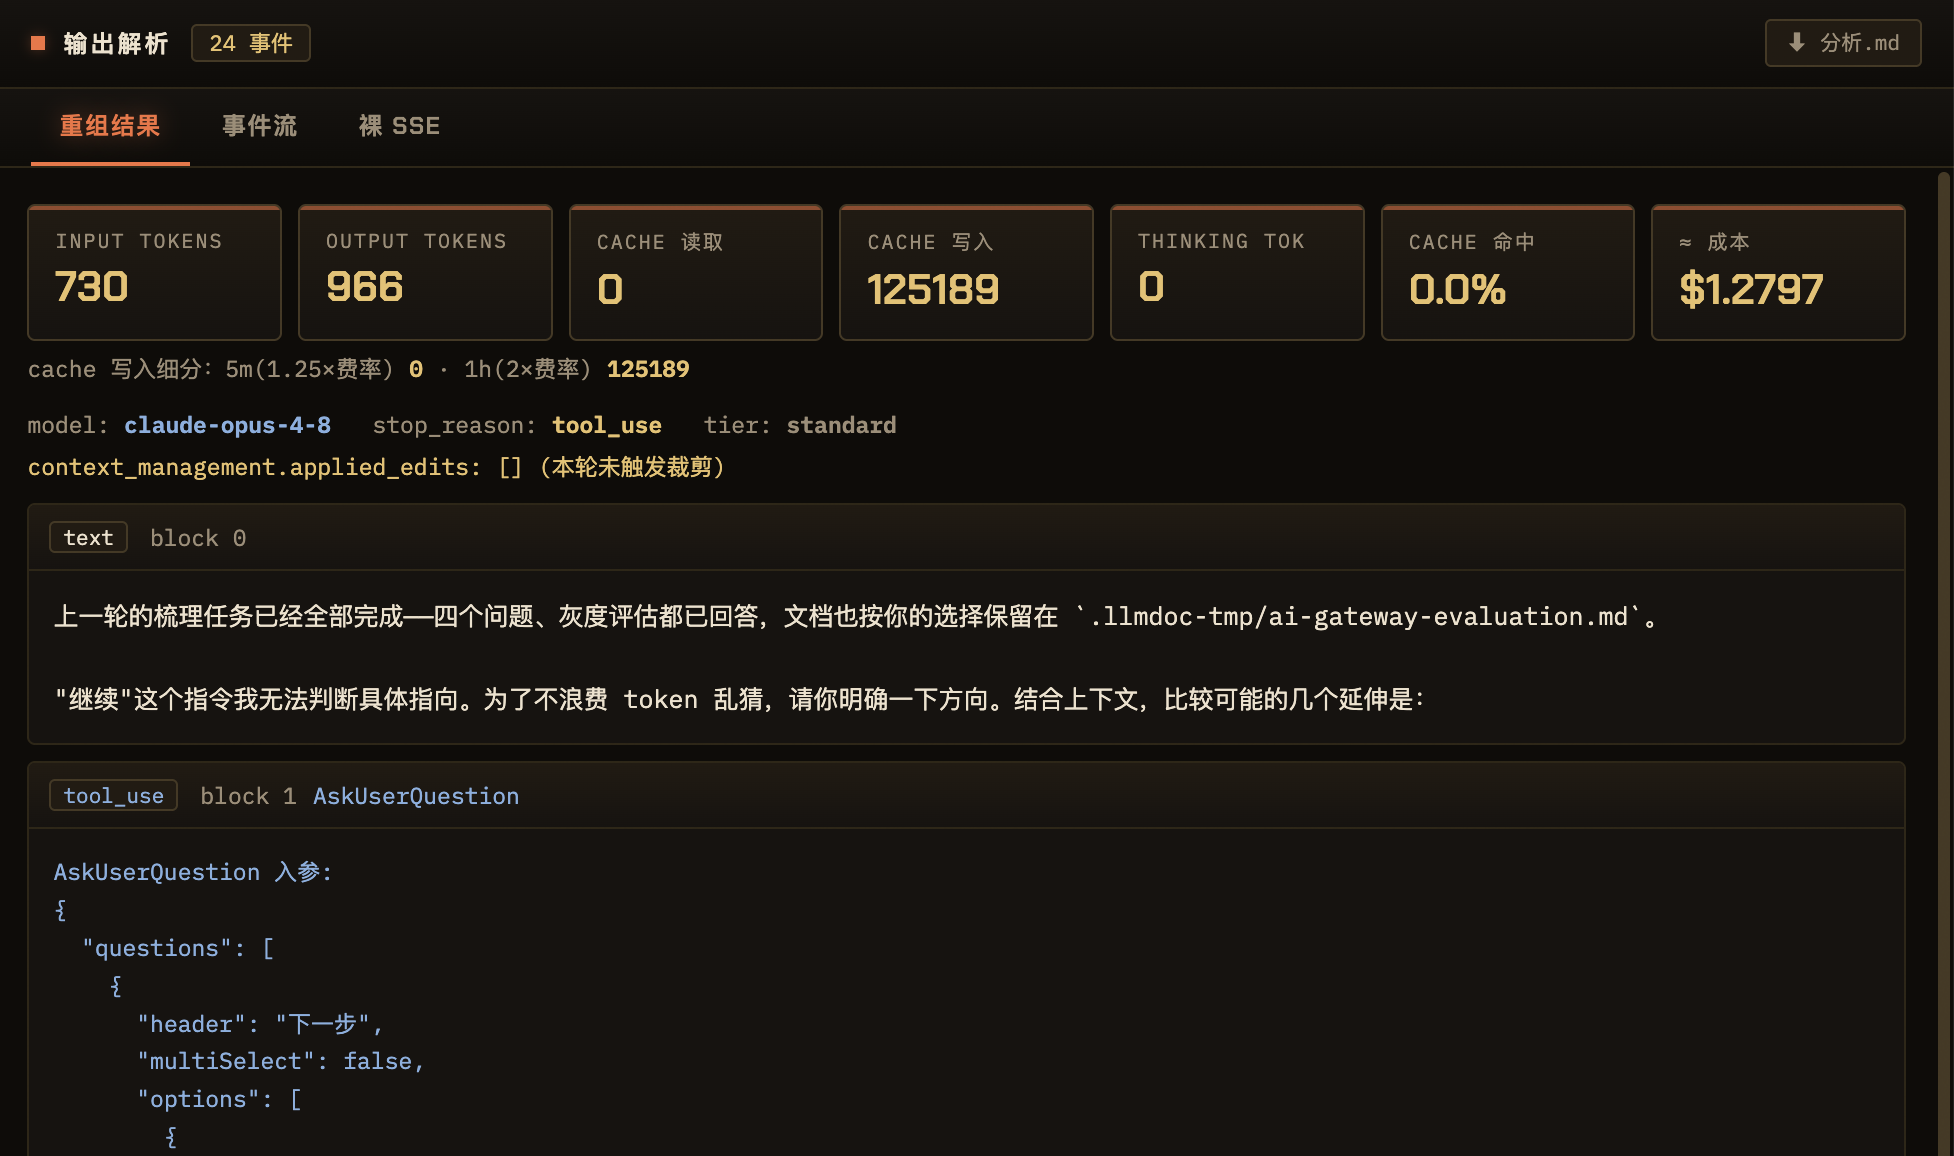
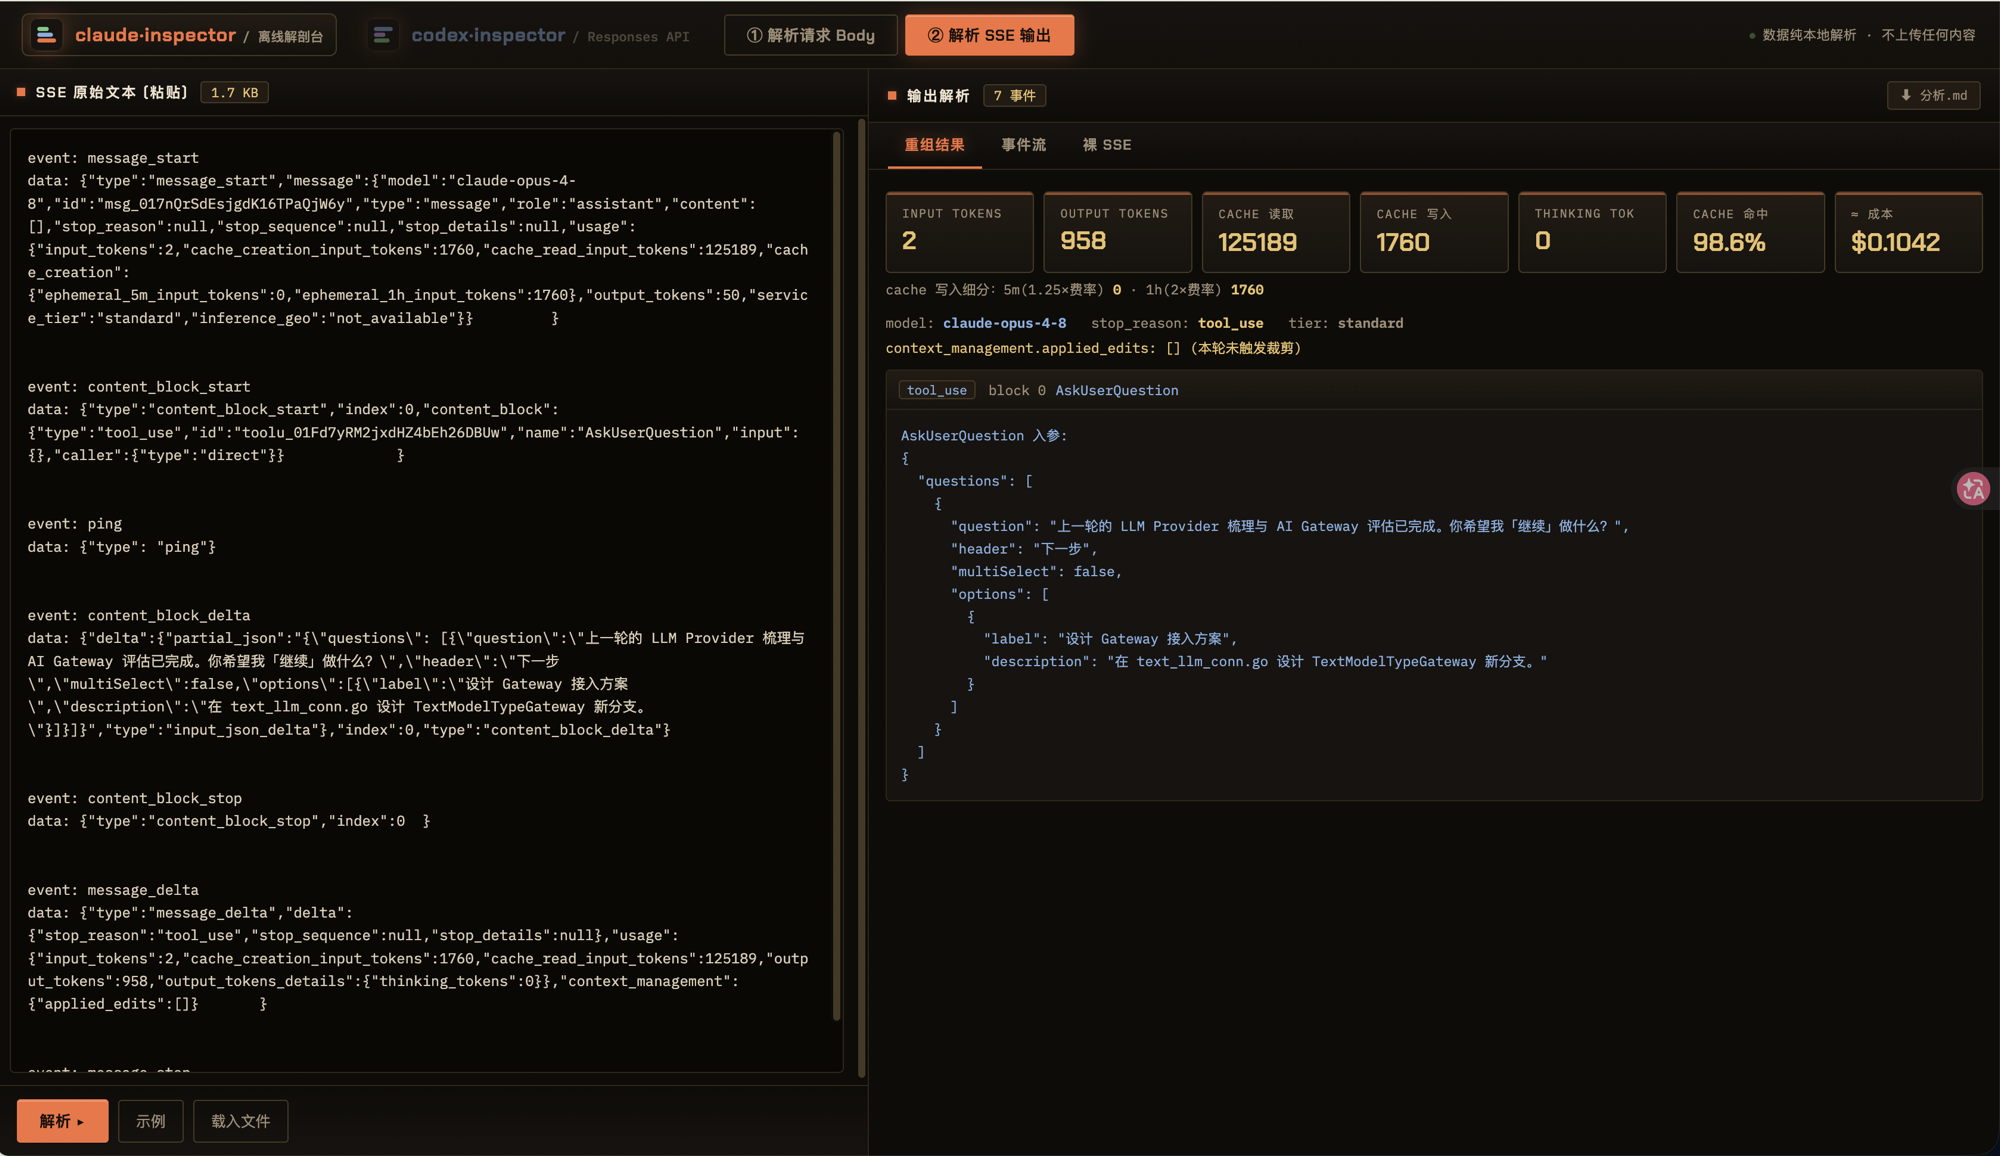
docs: 更新 SSE 重组截图，新增 Codex 请求拆解截图

Changed region(s): [[0.0, 0.0, 1.0, 1.0], [0.8741, 0.0, 0.999, 0.0934]]

diff --git a/README.md b/README.md
@@ -30,6 +30,10 @@
 
 ![SSE 重组](docs/screenshot-sse-recon.png)
 
+**Codex 请求拆解** —— Responses API 的 instructions / tools / input 体量分布、reasoning·verbosity 控制项、四类工具与 input item 类型统计：
+
+![Codex 请求拆解](docs/screenshot-codex-anatomy.png)
+
 ## 功能
 
 ### Claude 模式